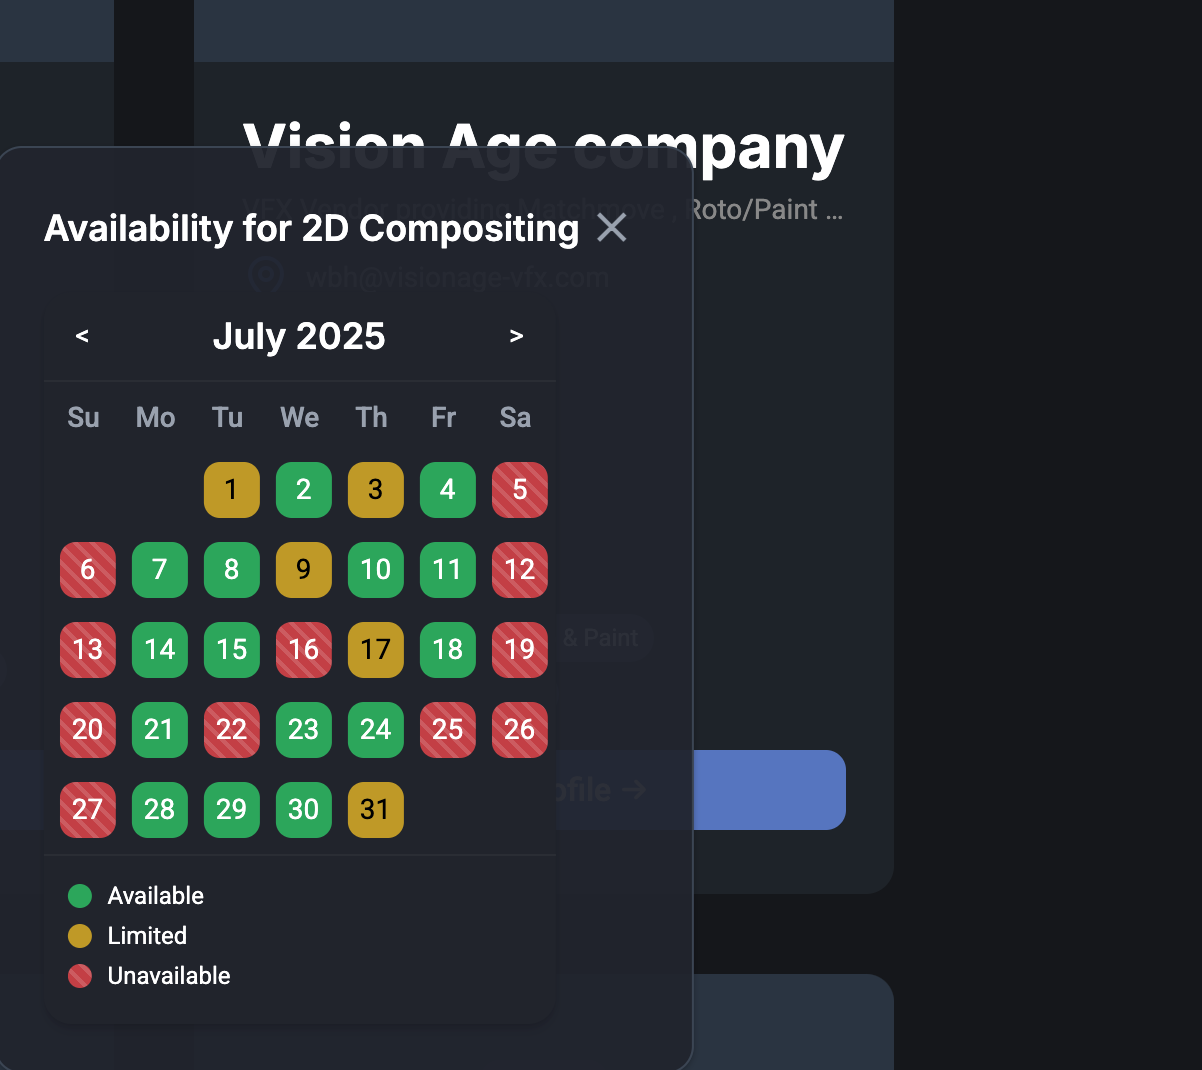
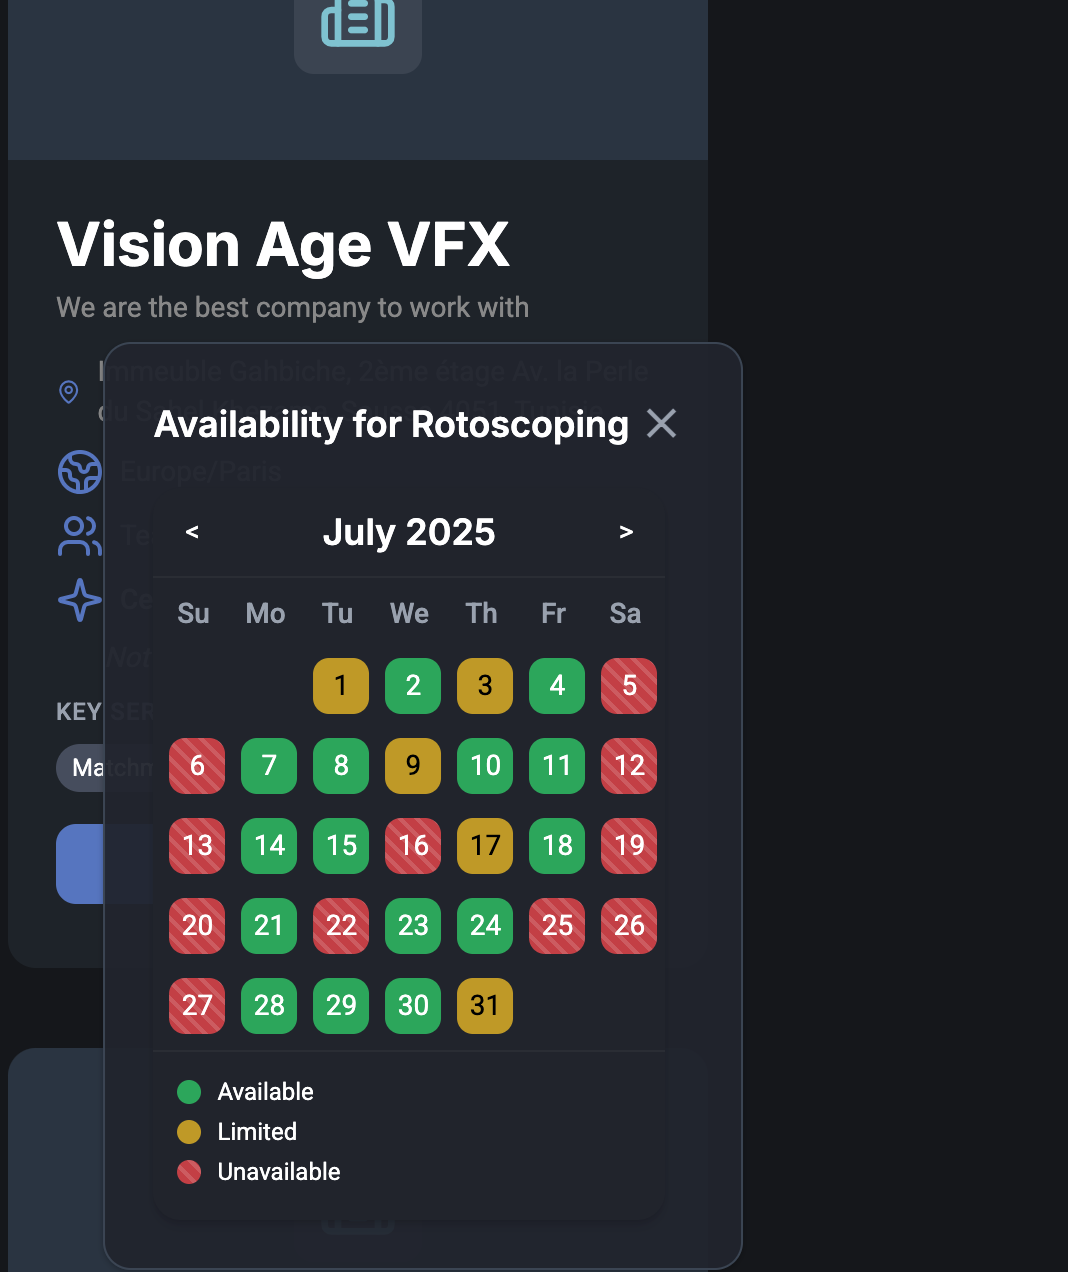
add an image

diff --git a/components/ui/ScrollImages.tsx b/components/ui/ScrollImages.tsx
@@ -81,7 +81,7 @@ export function ScrollImages() {
                 src={img.src}
                 height={60}
                 width={630}
-                className=" rounded-3xl max-h-200"
+                className=" rounded-3xl max-h-100 "
                 alt={img.title}
               />
               <div className=" space-y-4">
